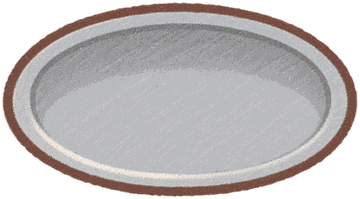
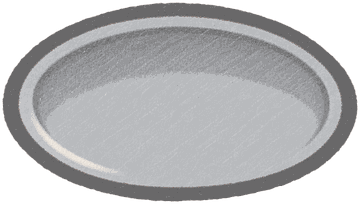
Bolder tray wells with equal gaps to the rim
- New hand-drawn tray well (thicker outline)
- Rim drawn at a fixed size per cell, so large boards no longer cover the outer wells
- Tray sized for the same 0.34-cell gap between outer wells and rim on all four sides

Claude-Session: https://claude.ai/code/session_015uk1q46158CzjTPReJyHs1

diff --git a/src/game-render.js b/src/game-render.js
@@ -389,20 +389,22 @@ function isZombieShown(v) { return v.infAt >= 0 ? (now - v.infAt >= 230) : v.zom
 
 // Hand-drawn tray: the base is 9-sliced so the rim keeps its thickness on any board shape,
 // and the tray with its wells is cached until the layout changes.
-const TRAY_PAD = { tray_base: 5.22, tray_well: 2.2 };
+const TRAY_PAD = { tray_base: 5.22, tray_well: 2.18 };
 let trayCache = { key: '', cv: null };
-function trayRect() { return { x: padX - S * 0.22, y: padTop - S * 0.3, w: state.W * S + S * 0.44, h: state.H * S + S * 0.5 }; }
+// Equal gap (0.34 cell) between the outermost wells and the rim on all four sides.
+// Wells span x ±0.4 around the cell centre and y [cy+0.0, cy+0.48]; cupcakes in the top row may stand above the rim.
+function trayRect() { return { x: padX - S * 0.24, y: padTop + S * 0.16, w: state.W * S + S * 0.48, h: state.H * S + S * 0.16 }; }
 function drawTrayArt(g) {
   const { x, y, w, h } = trayRect();
   const im = IMG.tray_base, p = TRAY_PAD.tray_base;
   const sx0 = p, sy0 = p, sw = im.width - 2 * p, sh = im.height - 2 * p;
-  const c = sw * 0.12, k = Math.min(w, h) / Math.min(sw, sh), d = Math.min(c * k, Math.min(w, h) / 2);
+  const c = sw * 0.12, d = Math.min(S * 0.42, Math.min(w, h) / 2); // rim inner edge lands ~0.22 cell in
   g.fillStyle = 'rgba(74, 46, 39, 0.16)'; roundRect(g, x + 6, y + 9, w, h, S * 0.3); g.fill();
   const xs = [[sx0, c, x, d], [sx0 + c, sw - 2 * c, x + d, w - 2 * d], [sx0 + sw - c, c, x + w - d, d]];
   const ys = [[sy0, c, y, d], [sy0 + c, sh - 2 * c, y + d, h - 2 * d], [sy0 + sh - c, c, y + h - d, d]];
   for (const [sx, sw2, dx, dw] of xs) for (const [sy, sh2, dy, dh] of ys) g.drawImage(im, sx, sy, sw2, sh2, dx - 0.3, dy - 0.3, dw + 0.6, dh + 0.6);
   const wl = IMG.tray_well, q = TRAY_PAD.tray_well;
-  for (let i = 0; i < state.W * state.H; i++) g.drawImage(wl, q, q, wl.width - 2 * q, wl.height - 2 * q, cxOf(i) - S * 0.4, wellY(i) - S * 0.26, S * 0.8, S * 0.52);
+  for (let i = 0; i < state.W * state.H; i++) g.drawImage(wl, q, q, wl.width - 2 * q, wl.height - 2 * q, cxOf(i) - S * 0.4, wellY(i) - S * 0.24, S * 0.8, S * 0.48);
 }
 function drawTray() {
   if (IMG.tray_base && IMG.tray_well) {
@@ -426,7 +428,7 @@ function drawTray() {
   ctx.restore();
 }
 function drawTrayPlain() {
-  const x = padX - S * 0.22, y = padTop - S * 0.3, w = state.W * S + S * 0.44, h = state.H * S + S * 0.5;
+  const { x, y, w, h } = trayRect();
   ctx.save();
   ctx.fillStyle = 'rgba(74, 46, 39, 0.16)';
   roundRect(ctx, x + 6, y + 9, w, h, S * 0.3); ctx.fill();

diff --git a/src/app-head.js b/src/app-head.js
@@ -30,9 +30,9 @@ function layout() {
   if (!state) return;
   const wrapW = boardWrap.clientWidth || 360;
   const wrapH = boardWrap.clientHeight || 420;
-  const s = Math.min(wrapW / (state.W + 0.8), wrapH / (state.H + 1.05), 110);
+  const s = Math.min(wrapW / (state.W + 0.8), wrapH / (state.H + 1.2), 110);
   S = Math.max(30, Math.floor(s));
-  padX = Math.round(S * 0.4); padTop = Math.round(S * 0.7); padBot = Math.round(S * 0.35);
+  padX = Math.round(S * 0.4); padTop = Math.round(S * 0.7); padBot = Math.round(S * 0.5);
   CW = state.W * S + padX * 2; CH = state.H * S + padTop + padBot;
   DPR = Math.min(2.5, window.devicePixelRatio || 1);
   canvas.style.width = CW + 'px'; canvas.style.height = CH + 'px';
@@ -68,8 +68,8 @@ function drawBg() {
   if (screen === 'play' && state) {
     const cr = canvas.getBoundingClientRect();
     const gap = S * 0.18;
-    midTop = cr.top - ar.top + padTop - S * 0.3 - gap;
-    midBot = midTop + gap * 2 + state.H * S + S * 0.5;
+    midTop = cr.top - ar.top + padTop + S * 0.16 - gap;
+    midBot = midTop + gap * 2 + state.H * S + S * 0.16;
   } else { midTop = topH; midBot = H - botH; }
   if (midBot < midTop) midBot = midTop;
   g.fillStyle = bg.wall; g.fillRect(0, 0, W, Math.max(0, midTop - topH) + 1);
